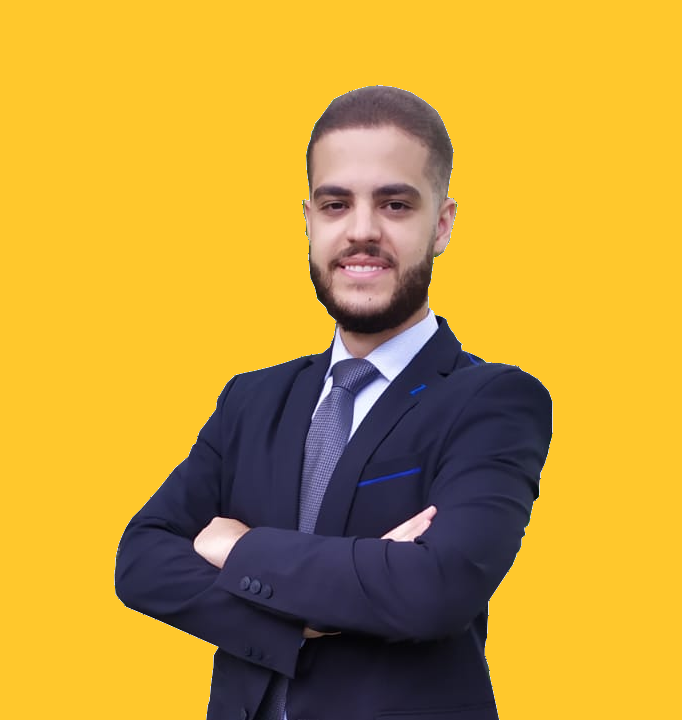
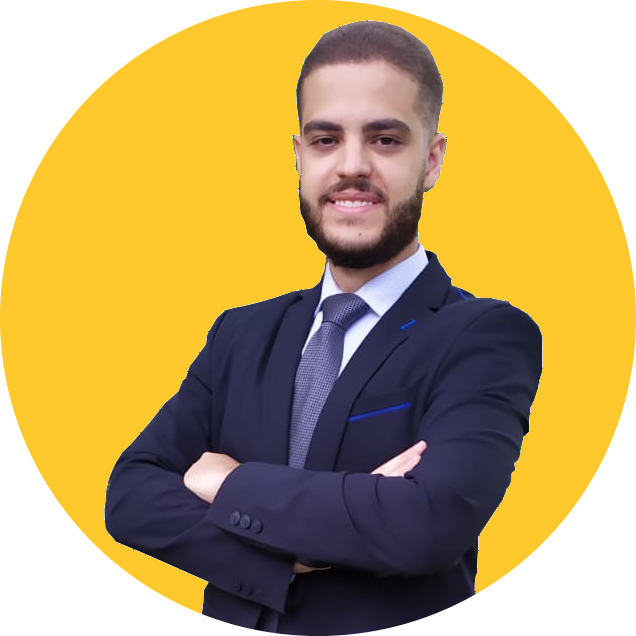
Adjustments

diff --git a/index.html b/index.html
@@ -28,7 +28,7 @@
 
           <main role="main" class="inner cover">
             <img class="profile-img" src="icon.png">
-            <h1 class="cover-heading">Hello! I'm Davi Frossard.</h1>
+            <h1 class="cover-heading">Hello! I'm Davi Frossard</h1>
             <p class="lead">A software engineer at Encora Inc.</p>
             <p class="lead">
               <a href="about.html" class="btn btn-lg btn-secondary">About me</a>
@@ -37,7 +37,7 @@
 
           <footer class="mastfoot mt-auto">
             <div class="inner">
-              <p>©2020 by Davi Frossard</p>
+              <p>©2023 by Davi Frossard</p>
             </div>
           </footer>
         </div>

diff --git a/about.html b/about.html
@@ -50,7 +50,7 @@
 
           <footer class="mastfoot mt-auto">
             <div class="inner">
-              <p>©2020 by Davi Frossard</p>
+              <p>©2023 by Davi Frossard</p>
             </div>
           </footer>
         </div>

diff --git a/portifolio.html b/portifolio.html
@@ -41,7 +41,7 @@
 
           <footer class="mastfoot mt-auto">
             <div class="inner">
-              <p>©2020 by Davi Frossard</p>
+              <p>©2023 by Davi Frossard</p>
             </div>
           </footer>
         </div>

diff --git a/contact.html b/contact.html
@@ -52,7 +52,7 @@
 
           <footer class="mastfoot mt-auto">
             <div class="inner">
-              <p>©2020 by Davi Frossard</p>
+              <p>©2023 by Davi Frossard</p>
             </div>
           </footer>
       </div>

diff --git a/styles.css b/styles.css
@@ -89,10 +89,5 @@ body {
 }
 
 .profile-img {
-  width: 25%;
-  border-radius: 100%;
+  width: 150px;
 }
-
-
-
-
